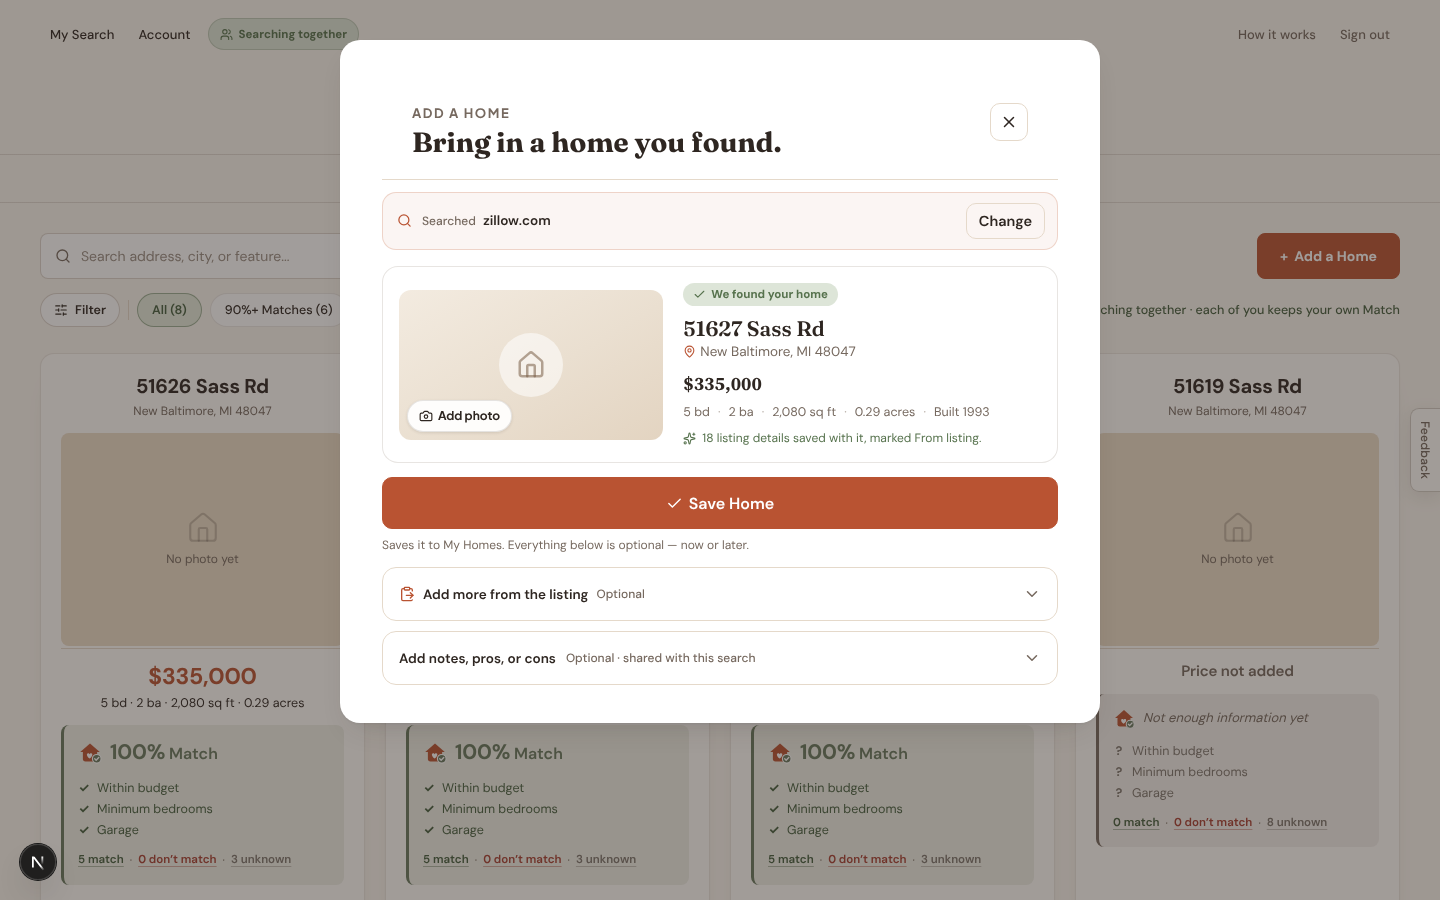
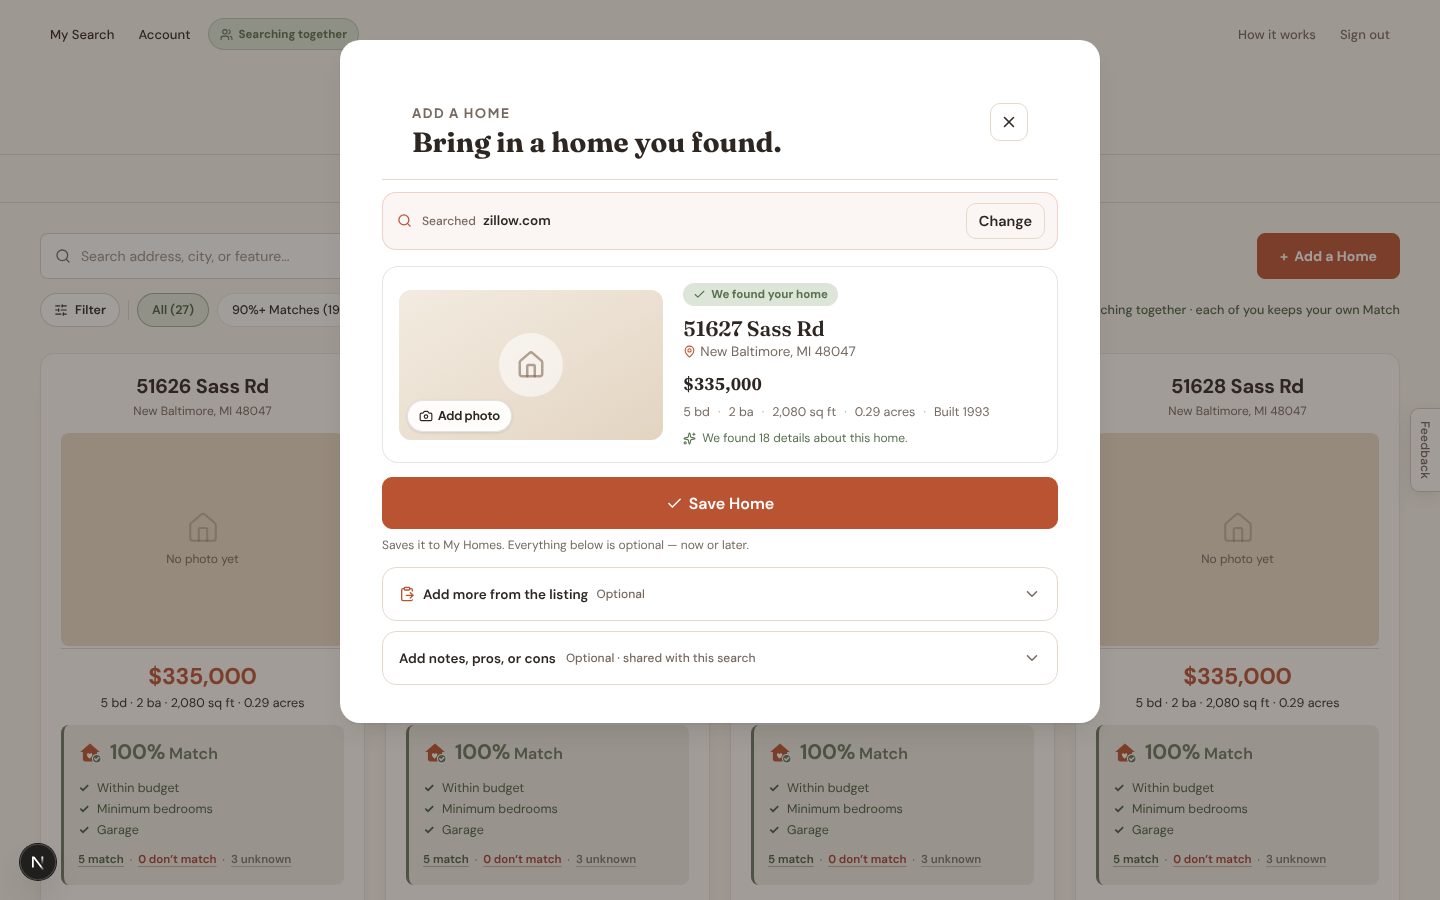
docs: simple save screenshots and QA after the photo-URL and copy fixes
Claude-Session: https://claude.ai/code/session_01FSpiGTDHyo7TkeYYnzLdFk

diff --git a/docs/add-home-v3-simple-save.md b/docs/add-home-v3-simple-save.md
@@ -156,17 +156,24 @@ The core tap count to save is the same: 4. What changed:
 
 ## Tests and QA
 
-- `test/add-home-simple-save.test.js`: 15 pass.
+- `test/add-home-simple-save.test.js`: 20 pass.
   - Pure helpers.
   - The card contract: one action, address only, optional parts after Save
     and folded.
   - Photo reuse and failure handling.
+  - **Photo URL safety:** an image link in pasted text never becomes
+    `photoUrl` (nor the listing URL); `photoUrl` is refused by every import
+    gate; an uploaded, typed or saved photo survives pasting; nothing reaches
+    the snapshot.
+  - **Found-card copy:** "We found N details about this home." with
+    singular/plural, and never "saved".
   - The saved state, and Board landing and opening.
   - Entry paths: share intake, duplicate redirect, one lookup per Find.
   - **Real Postgres:** Save Home's exact payload as the owner (every
     looked-up value and the snapshot kept, no Match answer, duplicate found by
     the co-buyer) and as the co-buyer (the owner sees it, no personal answers
-    written).
+    written). Also: pasting image-link text keeps a saved photo, and gives a
+    photo-less home none.
 - Updated source pins for the new name and order in
   `home-facts-redesign`, `listing-text-home-facts`,
   `buyer-mobile-add-edit-account` and `rentcast-import-accuracy`. No behaviour
@@ -175,7 +182,7 @@ The core tap count to save is the same: 4. What changed:
   from the listing** open, so the results the buyer just asked for stay in
   view, still below Save Home.
 - **Full suite, real PostgreSQL 16:** 1341 / 1341 pass, 0 skipped.
-- **Browser QA, `add-home-simple-save-e2e.mjs`:** 18 / 18 (desktop 1440 and
+- **Browser QA, `add-home-simple-save-e2e.mjs`:** 20 / 20 (desktop 1440 and
   iPhone 390). It covers:
   - a successful lookup;
   - optional paste left unreviewed;
@@ -185,7 +192,11 @@ The core tap count to save is the same: 4. What changed:
   - photo added;
   - photo upload failed;
   - the co-buyer;
-  - Share Extension entry (`/homes?url=`), including a shared duplicate.
+  - Share Extension entry (`/homes?url=`), including a shared duplicate;
+  - pasted text with an image link: the placeholder stays and nothing is
+    saved as the photo, and a photo the buyer added survives two pastes;
+  - the "We found 18 details about this home." copy, and listing provenance
+    kept in the saved snapshot.
 - **Regression QA.** The existing scripts now save with Save Home and open the
   home with View home.
 
